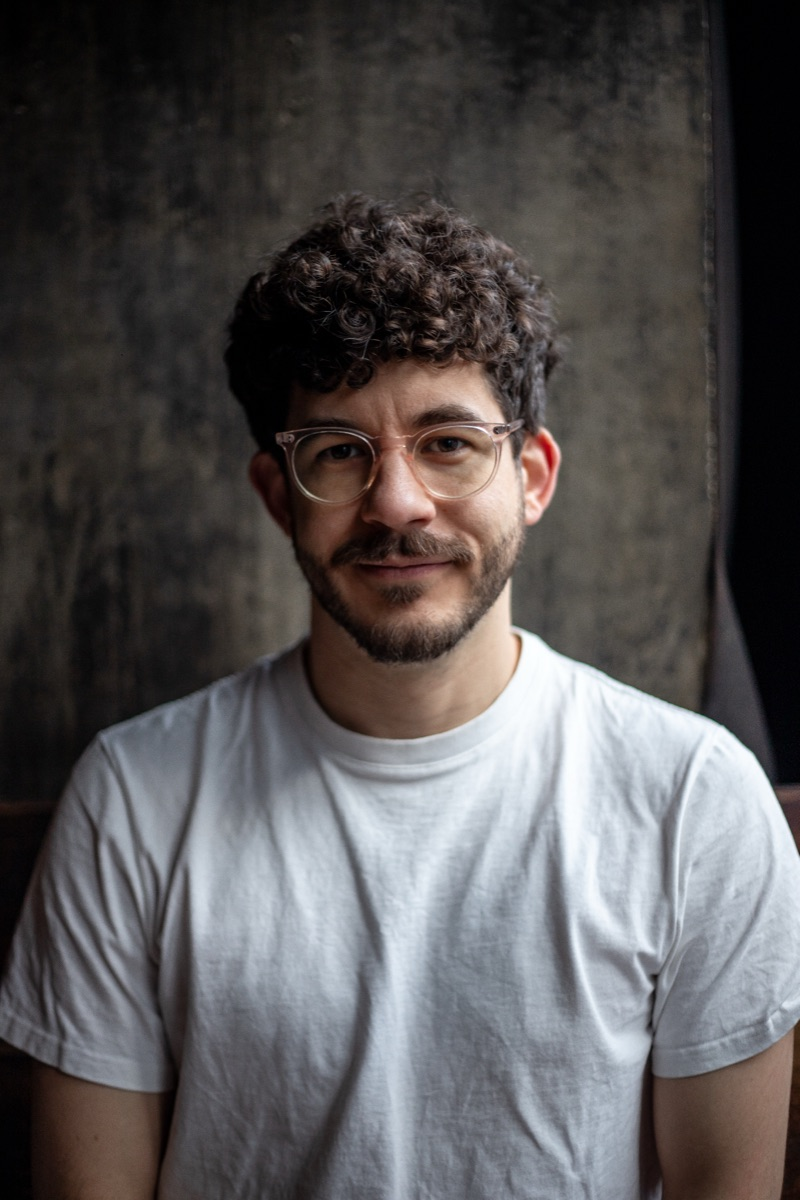
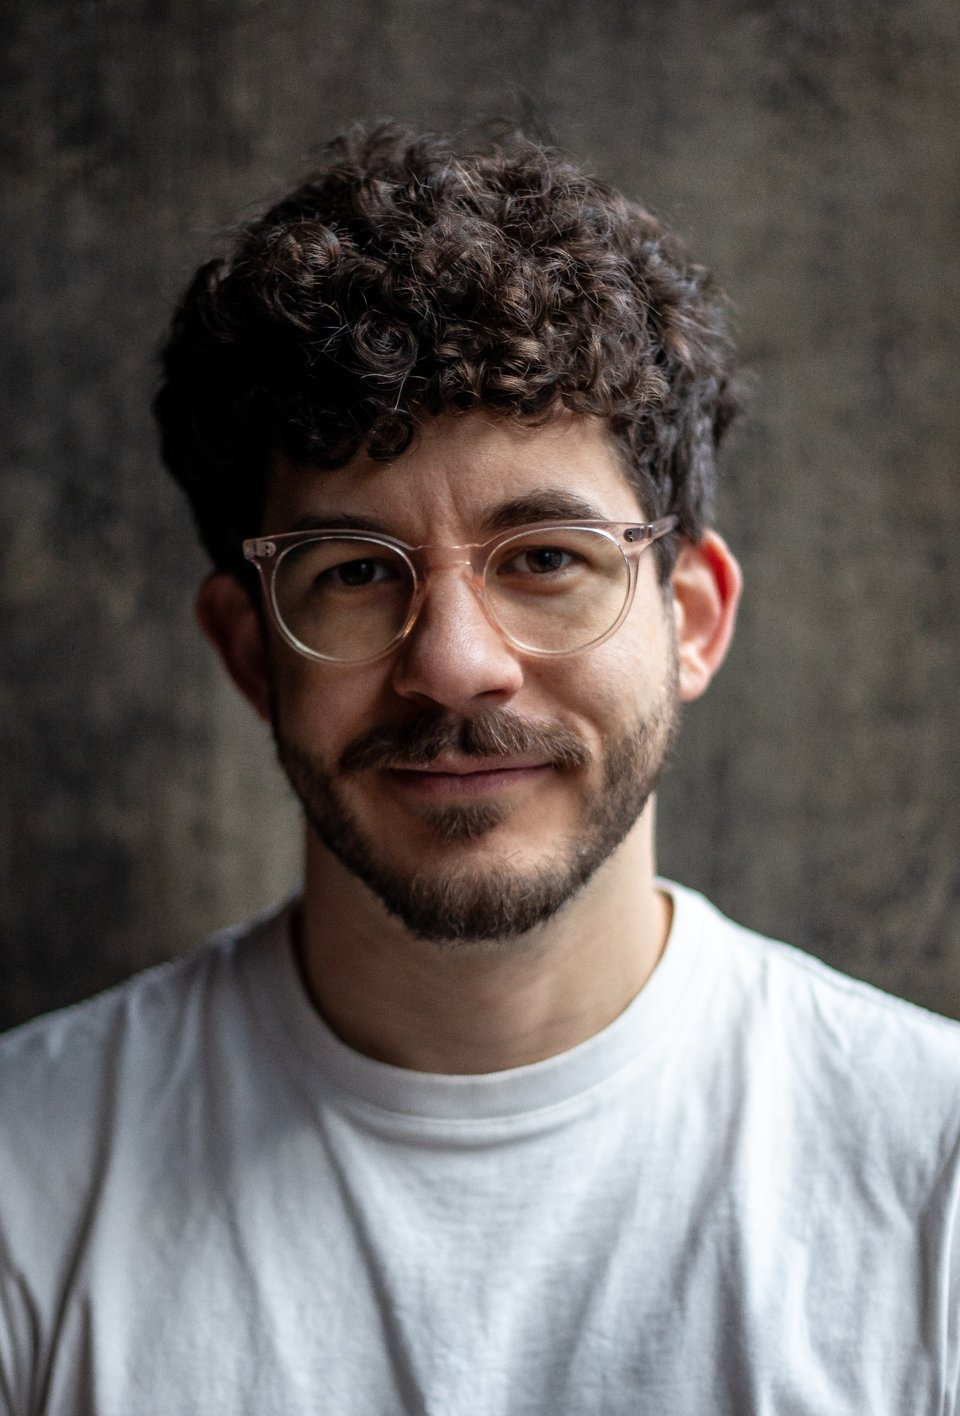
Fixed image crop

diff --git a/src/App.jsx b/src/App.jsx
@@ -54,7 +54,7 @@ function App() {
             <img
               src={portraitImage}
               alt="Portrait of lemgruber"
-              className="h-[460px] w-full object-cover object-[50%_20%] sm:h-[620px] md:h-[700px] lg:h-[708px]"
+              className="h-[460px] w-full object-cover object-[50%_25%] sm:h-[620px] md:h-[700px] lg:h-[708px] lg:object-center"
             />
           </div>
 
